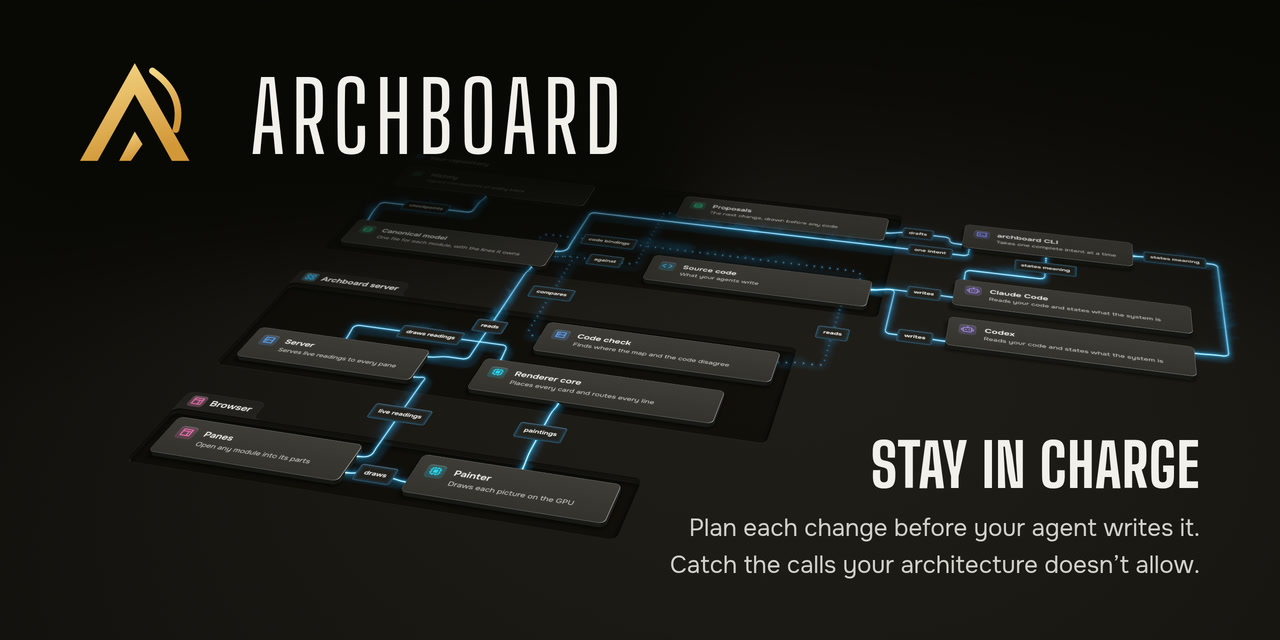
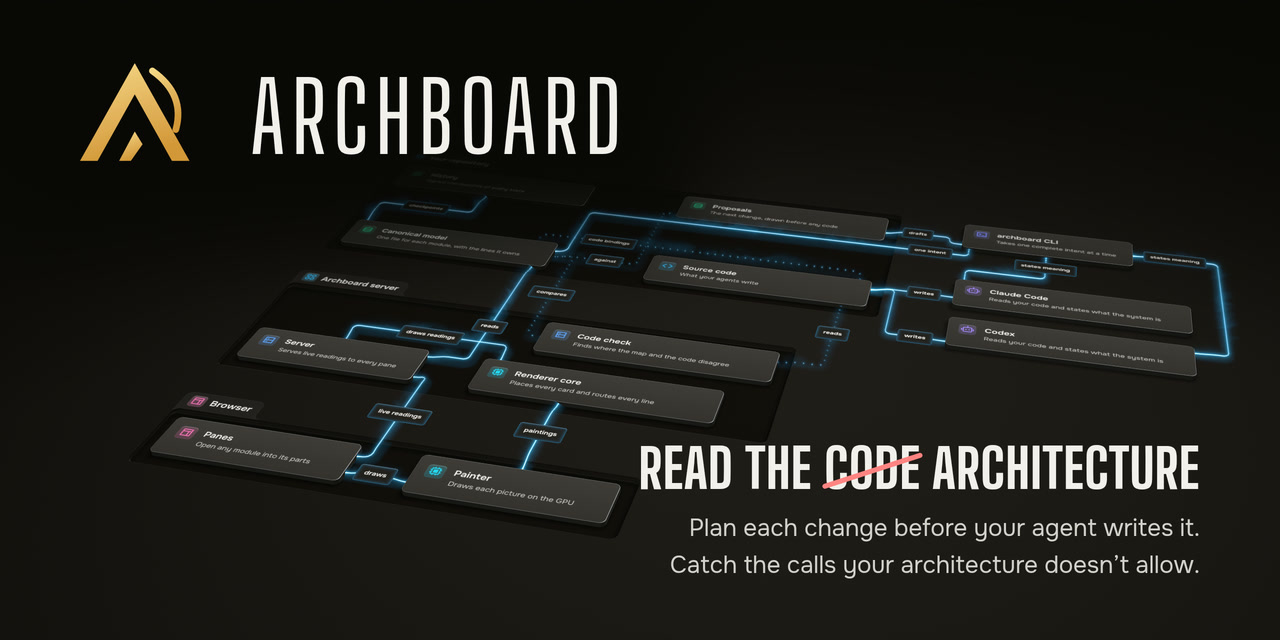
feat(readme): strike "code" from the social card's headline
The card's headline reads "Read the code architecture", with "code"
struck out by one red diagonal line. The red is --removed, the colour
that the site's drawings give what a change removes. A layout writes a
struck word between tildes.

Refs: TASK-625

Changed region(s): [[0.5, 0.6875, 0.9375, 0.7812]]

diff --git a/scripts/readme-assets/stage/banner.html b/scripts/readme-assets/stage/banner.html
@@ -44,20 +44,37 @@
 				--foreground: var(--ink);
 			}
 			/* A headline in the display face over a lead in the body face, as the site sets them, each
-			   line ending at the corner's right edge. The lead breaks where its text does. */
+			   line ending at the corner's right edge. Each breaks where its text does. */
 			.corner {
 				position: absolute;
 				text-align: right;
 			}
 			.corner p {
 				margin: 0;
+				white-space: pre-line;
 			}
 			.corner .display {
 				margin-bottom: 0.3em;
 			}
 			.corner .lead {
 				max-width: none;
-				white-space: pre-line;
+			}
+			/* A struck word: one diagonal line up through its capitals, in the colour that the site's
+			   drawings give what a change removes. */
+			.corner s {
+				position: relative;
+				text-decoration: none;
+			}
+			.corner s::after {
+				content: "";
+				position: absolute;
+				left: -0.08em;
+				right: -0.08em;
+				top: calc(50% + 0.05em);
+				height: 0.1em;
+				border-radius: 0.05em;
+				background: var(--removed);
+				transform: translateY(-50%) rotate(-18deg);
 			}
 		</style>
 	</head>
@@ -100,7 +117,15 @@
 					["[data-lead]", lead],
 				]) {
 					const text = corner.querySelector(selector);
-					text.textContent = words.text;
+					// A word between tildes is struck out.
+					text.replaceChildren(
+						...words.text.split("~").map((part, index) => {
+							if (index % 2 === 0) return part;
+							const struck = document.createElement("s");
+							struck.textContent = part;
+							return struck;
+						}),
+					);
 					text.style.setProperty("font-size", `${words.size}px`);
 				}
 				corner.style.setProperty("right", `${right}px`);

diff --git a/scripts/readme-assets/banner.ts b/scripts/readme-assets/banner.ts
@@ -76,9 +76,10 @@ interface Layout {
 	readonly lockup: { readonly left: number; readonly middle: number; readonly size: number };
 	/**
 	 * Words in the lower right corner, set as the site sets its words: a headline in the display face
-	 * over a lead in the body face, which breaks where its text holds a newline. Each has its font
-	 * size. The corner says how far the words stand from the right and bottom edges. The table
-	 * neither fits the picture around them nor darkens the picture behind them.
+	 * over a lead in the body face. Each breaks where its text holds a newline. A word between
+	 * tildes is struck out with one red diagonal line. Each has its font size. The corner says how
+	 * far the words stand from the right and bottom edges. The table neither fits the picture around
+	 * them nor darkens the picture behind them.
 	 */
 	readonly corner: {
 		readonly title: Words;
@@ -125,7 +126,7 @@ const SOCIAL: Layout = {
 	picture: { from: 150, to: 540 },
 	lockup: { left: 80, middle: 112, size: 96 },
 	corner: {
-		title: { text: "Stay in charge", size: 60 },
+		title: { text: "Read the ~code~ architecture", size: 54 },
 		lead: {
 			text: "Plan each change before your agent writes it.\nCatch the calls your architecture doesn’t allow.",
 			size: 24,

diff --git a/backlog/tasks/task-625 - The-README-banner-and-the-social-card-show-the-sites-hero-table-on-Archboards-ground.md b/backlog/tasks/task-625 - The-README-banner-and-the-social-card-show-the-sites-hero-table-on-Archboards-ground.md
@@ -7,7 +7,7 @@ status: Done
 assignee:
   - '@claude'
 created_date: '2026-11-10T20:23:00Z'
-updated_date: '2026-11-10T23:52:00Z'
+updated_date: '2026-11-11T00:27:00Z'
 labels:
   - docs
   - tooling
@@ -48,6 +48,8 @@ Second follow-up: the card's corner now holds a headline over a lead, right-alig
 Third follow-up: the card's headline is "Stay in charge" with no final period, because a title or heading takes no final period. The two lead sentences keep theirs.
 
 Fourth follow-up: removed the inner shadow on the card and the hard black band at the banner's foot. Both came from the hero's shader, which fades the table into the ground near every canvas edge (10% at the top, 4% at the foot, 3% at each side), and from the banner's canvas ending 37px above the banner's bottom edge. lightTable now takes an optional room, which sets where the picture lies up the canvas. The site does not pass it. The kit's layouts set the picture's span on the page and run the canvas past every edge of the picture. The stage page fades the table through a page-sized frame instead: the banner at its left (637-824px) and its foot (540-724px), and the card not at all. The site's stylesheet caps a canvas at its container's width, so the stage lifts that cap.
+
+Fifth follow-up: the card's headline reads "Read the code architecture" on one line at 54px, with "code" struck out by one red diagonal line in --removed, the colour that the site's drawings give what a change removes. The layout writes a struck word between tildes. At 60px the line ran into the Painter card.
 <!-- SECTION:NOTES:END -->
 
 ## Final Summary

diff --git a/docs/agents/readme-assets.md b/docs/agents/readme-assets.md
@@ -84,8 +84,10 @@ The banner's lockup, the mark beside the name, comes from
 to the one the shell draws in `apps/web/src/ui/shell/components/Brand.tsx`. The banner
 also writes `docs/assets/archboard-social-card.jpg`. It is GitHub's social preview and the
 site's link preview, with the lockup above the table as the site's hero sets its words. Its lower
-right corner holds a headline and a lead, as the site sets them: "Stay in charge", then planning
-and the check in one sentence each. The words are in the social layout in
+right corner holds a headline and a lead, as the site sets them. The headline reads "Read the
+code architecture", with "code" struck out by one red diagonal line in the drawings' colour for
+what a change removes. The lead gives planning and the check in one sentence each. The words are
+in the social layout in
 `scripts/readme-assets/banner.ts`. GitHub does
 not read it from the repository: the owner uploads it by hand under Social preview in the
 repository's settings.
